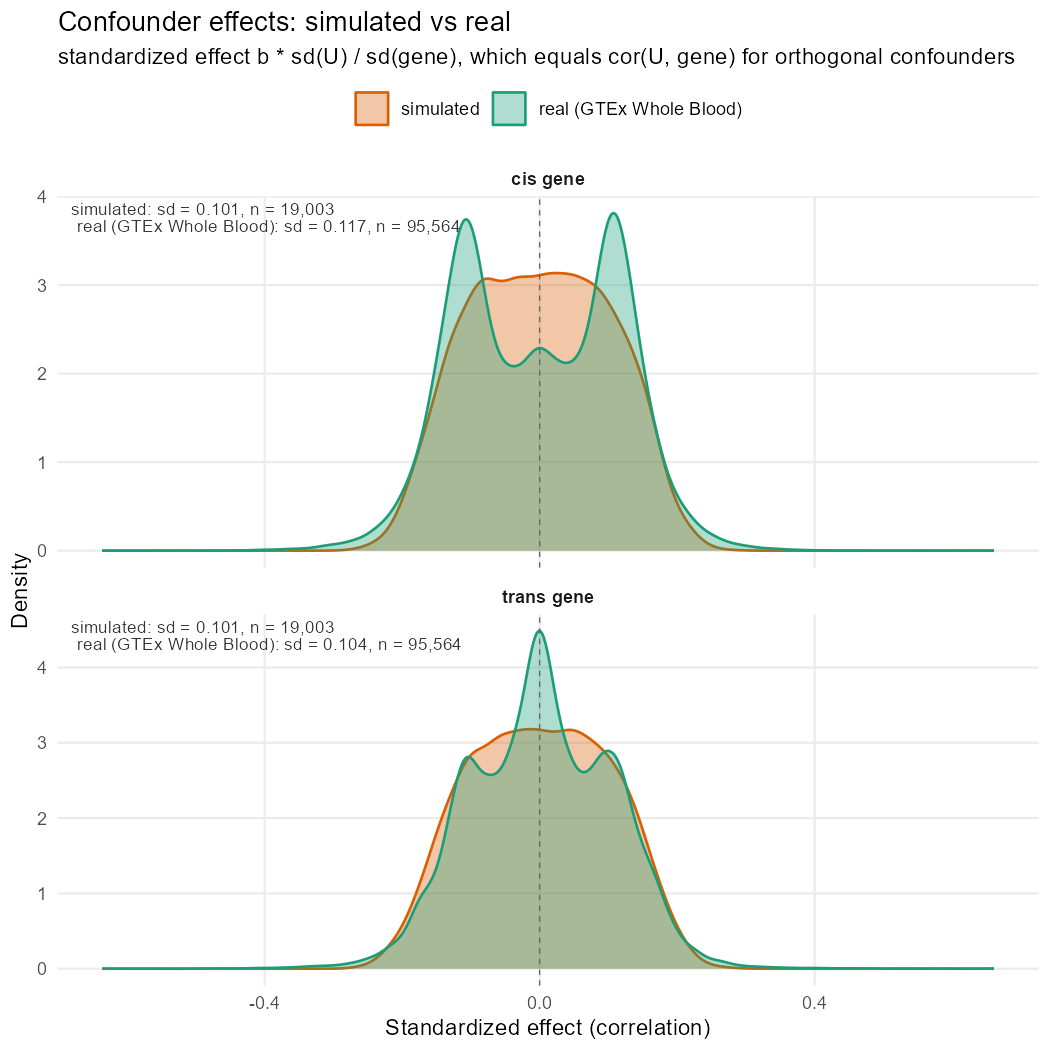
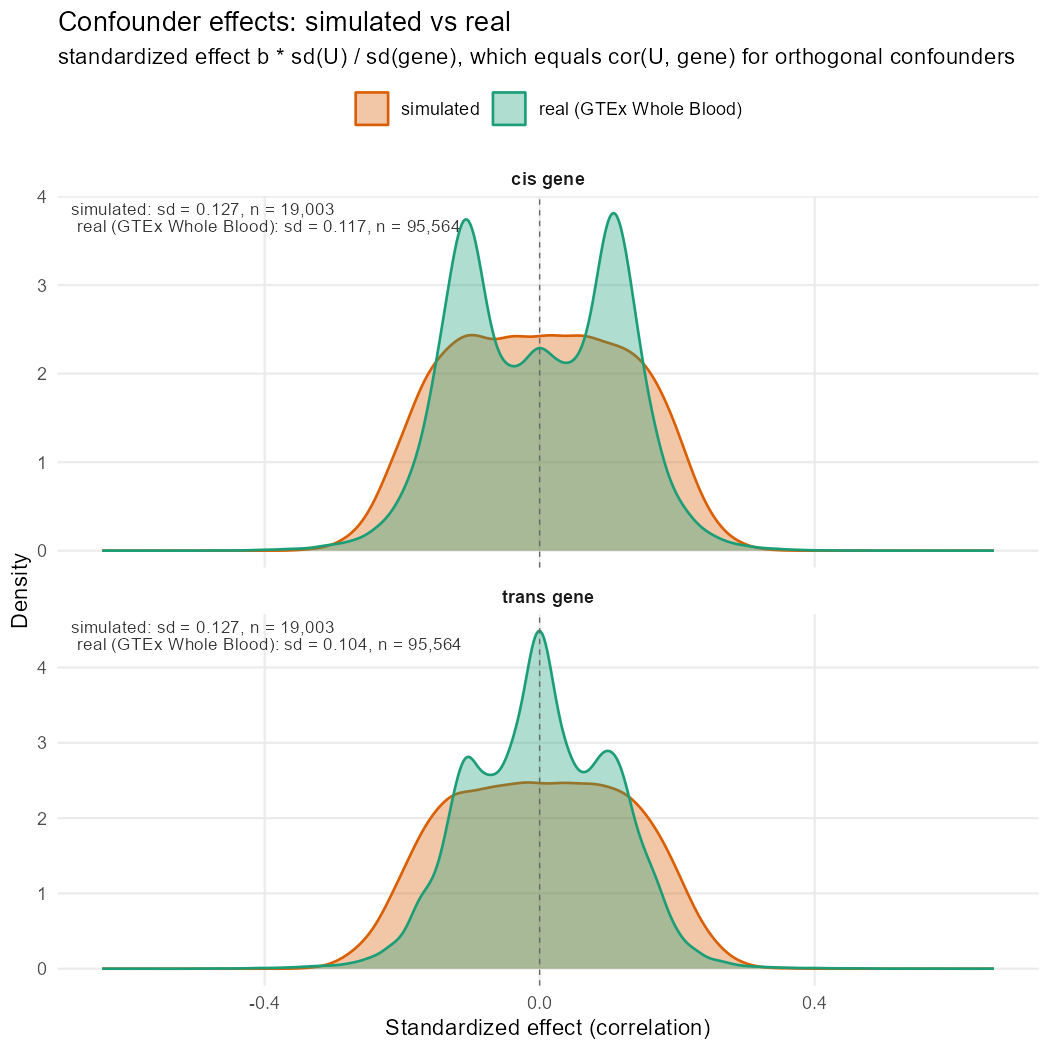
Recalibrate simulation confounding outputs
Updates METHODS to reflect the recalibrated simulation: stronger simulated effect-size summaries, adjusted R² now aligned with real data (median ~0.40 vs 0.412), and a rewritten low-n limitation section that separates effect-size, sample-size, and multiplicity constraints with new tables. Also removes the now-obsolete open item about under-confounding and refreshes the generated artifacts (`simulated_trios.RData` and `simulated_vs_real_conf_effects.png`) to match the new calibration.

diff --git a/bioinfo_revision/METHODS.md b/bioinfo_revision/METHODS.md
@@ -126,33 +126,37 @@ overlays the two densities for the cis and trans gene.
 
 | | n | sd | median \|r\| | max \|r\| |
 | --- | --- | --- | --- | --- |
-| simulated cis | 19,003 | 0.101 | 0.081 | 0.295 |
+| simulated cis | 19,003 | 0.127 | 0.103 | 0.346 |
 | real cis | 95,564 | 0.117 | 0.101 | 0.661 |
-| simulated trans | 19,003 | 0.101 | 0.080 | 0.292 |
+| simulated trans | 19,003 | 0.127 | 0.102 | 0.370 |
 | real trans | 95,564 | 0.104 | 0.077 | 0.653 |
 
 The distributions overlay closely. Two differences are visible in the plot: the
 real densities dip at zero, because those PCs were *selected* at FDR 0.05 and
 near-null effects are filtered out by construction, and the real tails reach
-±0.66 where the simulated ones stop at ±0.30.
+±0.66 where the simulated ones stop near ±0.35.
 
 Adjusted `R²` of each gene on its own `U` block:
 
 | `U_n` | simulated `R²` | real |
 | --- | --- | --- |
-| ≤ 10 | 0.056 | 0.084 (at 9.5 PCs) |
-| 10–20 | 0.161 | 0.279 (at 18) |
-| 20–30 | 0.236 | 0.378 (at 26) |
-| 30–40 | 0.303 | 0.451 (at 34) |
-| 40–50 | 0.358 | 0.521 (at 43) |
+| ≤ 10 | 0.122 | 0.084 (at 9.5 PCs) |
+| 10–20 | 0.302 | 0.279 (at 18) |
+| 20–30 | 0.410 | 0.378 (at 26) |
+| 30–40 | 0.495 | 0.451 (at 34) |
+| 40–50 | 0.557 | 0.521 (at 43) |
 
-Overall median 0.226 cis and 0.221 trans, against 0.412 and 0.307 in real data.
-**The simulation is now under-confounded by roughly a factor of two**, where
-before it was over-confounded by 1.6× (`R²` 0.65). Two causes, both arithmetic:
-the realized effect sd is 0.101 against 0.117, and `U_n` has median 26 against 30
-selected PCs in real trios, and `R² = U_n × E[r²]`. Raising the interval to about
-`c(0, 0.25)` would land the median `R²` on the real 0.41; `c(0, 0.2)` keeps the
-effect *range* inside the real central 95% and errs conservative.
+Overall median **0.400 cis against the real 0.412**, and the curve tracks the
+real one across the whole confounder-count range. Before the change the median
+was 0.65.
+
+By sample size the median adjusted `R²` is 0.360 / 0.401 / 0.406 / 0.404 / 0.411
+at n = 50 / 150 / 300 / 670 / 1000 — flat, as it should be, since the confounding
+is a property of the generating model rather than of `n`.
+
+The realized SNP effect, median `|cor(V1,T1)|`, separates monotonically across
+the effect-size strata at 0.087 / 0.166 / 0.297, spanning the real Whole Blood
+distribution (modal ±0.13, central 99% within ±0.45).
 
 ### Known limitation
 
@@ -203,22 +207,88 @@ group and raises "No common child or intermediate variables detected";
 `select.confounders()` catches this and falls back to `filter_int_child = FALSE`,
 recording it in the `CSq.filter_int_child` / `CSa.filter_int_child` columns.
 
-**This is a power limit, not a calibration artefact.** `W` and `Z` are downstream
-of `T1`, so `|cor(V1, W)| ≤ |cor(V1, T1)|`, and the real cis-eQTL partial
-correlation is ~0.13. At n = 50 the standard error of a correlation is 0.14, so
-an `r` of 0.15 is undetectable as a *single* test (p ≈ 0.30), before any
-multiplicity correction.
+**This is not a calibration artefact — it persists after the confounder effects
+are corrected.** There are three distinct obstacles, and which one binds depends
+on `n`.
 
-It persists after the confounder effects are reduced — measured on the current
-simulation, the fraction of each block clearing the pooled threshold:
+`verify_simulation.R` separates them. The observed correlations *fall* with `n`
+because a sample correlation carries about `1/√n` of noise; de-noising with
+`√(mean(r²) − 1/n)` recovers a true effect that is constant across `n`, which is
+the point:
 
-| n | median \|cor(V1,W)\| | median \|cor(V1,Z)\| | W pass | Z pass |
-| --- | --- | --- | --- | --- |
-| 50 | 0.111 | 0.163 | 0.000 | 0.013 |
-| 150 | 0.073 | 0.111 | 0.003 | 0.087 |
-| 300 | 0.059 | 0.112 | 0.007 | 0.184 |
-| 670 | 0.046 | 0.101 | 0.060 | 0.297 |
-| 1000 | 0.041 | 0.098 | 0.083 | 0.367 |
+| n | med \|rVW\| | true rW | med \|rVZ\| | true rZ | W pooled | Z pooled | W α=.05 | Z α=.05 |
+| --- | --- | --- | --- | --- | --- | --- | --- | --- |
+| 50 | 0.110 | 0.065 | 0.155 | 0.168 | 0.000 | 0.008 | 0.077 | 0.207 |
+| 150 | 0.073 | 0.072 | 0.105 | 0.165 | 0.003 | 0.067 | 0.127 | 0.344 |
+| 300 | 0.058 | 0.071 | 0.103 | 0.165 | 0.004 | 0.149 | 0.211 | 0.468 |
+| 670 | 0.046 | 0.072 | 0.090 | 0.167 | 0.052 | 0.273 | 0.296 | 0.591 |
+| 1000 | 0.040 | 0.068 | 0.089 | 0.163 | 0.080 | 0.337 | 0.351 | 0.616 |
+
+1. **Effect size.** The true `|cor(V1, W)| ≈ 0.068` and `|cor(V1, Z)| ≈ 0.163`.
+   From `n = (z/r)²`, `W` needs n ≈ 823 uncorrected or ≈ 4,207 at the pooled
+   threshold; `Z` needs ≈ 145 and ≈ 743. `Z` is roughly 2.4× better coupled
+   because it hangs off the trio by two edges with coefficients `U(1, 1.5)`,
+   while `W` hangs off one with `U(0.05, 0.5)`.
+2. **Sample size.** At n = 50 even the *uncorrected* pass rate for `W` is 0.077,
+   barely above the 0.05 null rate — power is the binding constraint there.
+3. **Multiplicity.** At n = 1000 the uncorrected rate for `W` is 0.351 but the
+   pooled rate is 0.080; for `Z`, 0.616 against 0.337. At large `n` the pooled
+   threshold, not power, is what binds.
+
+Both blocks are capped above by `|cor(V1, T1)| ≈ 0.156`, since `W` and `Z` are
+downstream of `T1` and correlation multiplies along a path. Measured at n = 1000:
+
+| link | median \|r\| |
+| --- | --- |
+| `cor(V1, T1)` variant → cis gene | 0.156 |
+| `cor(T1, W)` | 0.312 |
+| `cor(T1, Z)` | 0.664 |
+
+`0.156 × 0.664 = 0.104` against an observed `cor(V1, Z)` of 0.089. `Z`'s effect on
+the *genes* is large, but the filter tests it against the *variant*, and the first
+link is the bottleneck. That ceiling is set by the real cis-eQTL effect (~0.13),
+so no recalibration moves it.
+
+`Z` is already at its structural ceiling — with two roughly equal parents
+`cor(T1, Z) → 1/√2 = 0.707` as the coefficients grow, and `U(1, 1.5)` already
+reaches 0.664. `W` is not: a single parent means `cor(T1, W) → 1`, and
+`U(0.05, 0.5)` reaches only 0.312. Moving `W` to `Z`'s range would roughly triple
+`cor(V1, W)`. `W`'s range is the same `c(0.05, 0.5)` the `U` block used before it
+was recalibrated, which may be a copy rather than a considered choice.
+
+### The failure is conditional, not universal
+
+Detection depends on `b.snp` and `n`, not on the model or on `b.snp` relative to
+`b.med`. The ratio is irrelevant — `cor(Z pass, b.snp/b.med) = 0.036`, against
+`cor(Z pass, b.snp) = 0.523` — which follows from `b.med` being the `T1 → T2`
+edge, not on the path from `V1` to `W` or `Z`.
+
+`Z` pass rate by effect-size stratum:
+
+| n | small | medium | large |
+| --- | --- | --- | --- |
+| 50 | 0.000 | 0.004 | 0.020 |
+| 300 | 0.000 | 0.088 | 0.360 |
+| 670 | 0.056 | 0.204 | 0.560 |
+| 1000 | 0.060 | 0.296 | 0.656 |
+
+So the filter works where the SNP effect is strong and `n` is adequate. **n = 50
+fails at every stratum**: even the large-effect cases reach only
+`cor(V1, Z) = 0.224` against a pooled threshold demanding ~0.55.
+
+Two per-model details, both correct behaviour rather than defects: in **model2**
+the intermediate is upstream (`T2 → W → T1`), so `W` and `V1` are both parents of
+`T1` and marginally independent — `cor(V1, W) = 0.022`, and the filter can never
+find it. In **model3** `V1` reaches `Z` through both genes with independently
+signed coefficients, so the two paths partly cancel and `cor(V1, Z) = 0.046`,
+the lowest of the five models.
+
+There is also a design mismatch worth recording. `get.conf.trios()` identifies an
+intermediate or common child by its correlation with variants **across the whole
+group**: in real GTEx every trio is scored against the same PC matrix, so a PC
+that is a common child for many trios correlates with many variants and stands
+out. Here each trio owns a private `W` and `Z` correlated with exactly one
+variant out of 750, which is not the setting the filter was designed for.
 
 The consequence is material: with the filter off, the common child `Z` is
 selected as a confounder for essentially every n = 50 trio (measured on the
@@ -247,9 +317,6 @@ on PCs only.
 
 ## 6. Open items
 
-- **Confounding is about half the real level** (`R²` 0.23 vs 0.41). `c(0, 0.25)`
-  would match it; `c(0, 0.2)` matches the effect *range* instead and errs
-  conservative. One number, §3.
 - The real effect pools are **conditional on selection** (those PCs were retained
   at FDR 0.05), so they describe confounders strong enough to have been found.
   Recovery rates should not be read as covering near-null confounders.
